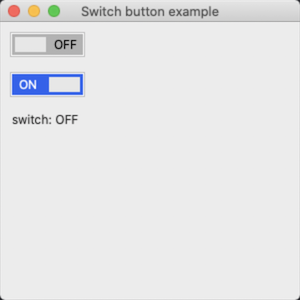
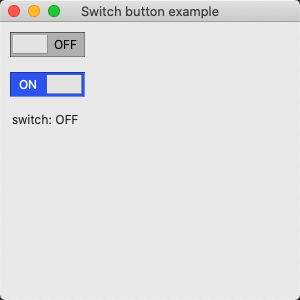
fix switch_button example

diff --git a/examples/custom_controls/switch_button/switch_button.cpp b/examples/custom_controls/switch_button/switch_button.cpp
@@ -9,7 +9,6 @@ class switch_button : public user_control {
 public:
   switch_button() {
     this->size_ = this->default_size();
-    //this->border_style_ = border_style::fixed_single;
   }
   
   virtual bool auto_check() const {return this->auto_check_;}
@@ -56,8 +55,15 @@ protected:
 
     e.graphics().clear(back_color);
     e.graphics().draw_string(text, this->font(), solid_brush(fore_color), string_location);
-    e.graphics().draw_rectangle(pen(system_colors::control_text()), e.clip_rectangle());
+    e.graphics().draw_line(pen(color::darker(back_color), 2), e.clip_rectangle().left(), e.clip_rectangle().top(), e.clip_rectangle().right(), e.clip_rectangle().top());
+    e.graphics().draw_line(pen(color::darker(back_color), 2), e.clip_rectangle().left(), e.clip_rectangle().top(), e.clip_rectangle().left(), e.clip_rectangle().bottom());
+    e.graphics().draw_line(pen(color::lighter(back_color), 2), e.clip_rectangle().left(), e.clip_rectangle().bottom(), e.clip_rectangle().right(), e.clip_rectangle().bottom());
+    e.graphics().draw_line(pen(color::lighter(back_color), 2), e.clip_rectangle().right(), e.clip_rectangle().top() + 2, e.clip_rectangle().right(), e.clip_rectangle().bottom());
     e.graphics().fill_rectangle(solid_brush(system_colors::control()), {slider_location, slider_size});
+    e.graphics().draw_line(pen(color::lighter(system_colors::control())), slider_location.x(), slider_location.y(), slider_location.x() + slider_size.width(), slider_location.y());
+    e.graphics().draw_line(pen(color::lighter(system_colors::control())), slider_location.x(), slider_location.y(), slider_location.x(), slider_location.y() + slider_size.height() - 2);
+    e.graphics().draw_line(pen(color::darker(system_colors::control())), slider_location.x(), slider_location.y() + slider_size.height() - 1, slider_location.x() + slider_size.width(), slider_location.y() + slider_size.height() - 1);
+    e.graphics().draw_line(pen(color::darker(system_colors::control())), slider_location.x() + slider_size.width(), slider_location.y(), slider_location.x() + slider_size.width(), slider_location.y() + slider_size.height() - 1);
   }
   
 private:

diff --git a/src/xtd_forms_native_wxwidgets/src/xtd/forms/native/wxwidgets/wx_user_control.hpp b/src/xtd_forms_native_wxwidgets/src/xtd/forms/native/wxwidgets/wx_user_control.hpp
@@ -14,6 +14,7 @@ namespace xtd {
           if (!create_params.parent()) throw std::invalid_argument("control must have a parent");
           this->control_handler::create<wxScrolled<wxPanel>>(reinterpret_cast<control_handler*>(create_params.parent())->control(), wxID_ANY, wxPoint(create_params.x(), create_params.y()), wxSize(create_params.width(), create_params.height()), style_to_wx_style(create_params.style(), create_params.ex_style()));
           this->control()->SetSize(create_params.width(), create_params.height());
+          static_cast<wxScrolled<wxPanel>*>(this->control())->SetVirtualSize(this->control()->GetSize());
         }
         
         static long style_to_wx_style(size_t style, size_t ex_style) {

diff --git a/src/xtd_forms_native_wxwidgets/src/xtd/forms/native/wxwidgets/wx_tab_page.hpp b/src/xtd_forms_native_wxwidgets/src/xtd/forms/native/wxwidgets/wx_tab_page.hpp
@@ -16,6 +16,7 @@ namespace xtd {
         wx_tab_page(const forms::create_params& create_params) {
           if (!create_params.parent()) throw std::invalid_argument("control must have a parent");
           this->control_handler::create<wxScrolled<wxPanel>>(reinterpret_cast<control_handler*>(create_params.parent())->control(), wxID_ANY, wxDefaultPosition, wxDefaultSize, style_to_wx_style(create_params.style(), create_params.ex_style()));
+          static_cast<wxScrolled<wxPanel>*>(this->control())->SetVirtualSize(this->control()->GetSize());
         }
         
         static long style_to_wx_style(size_t style, size_t ex_style) {
